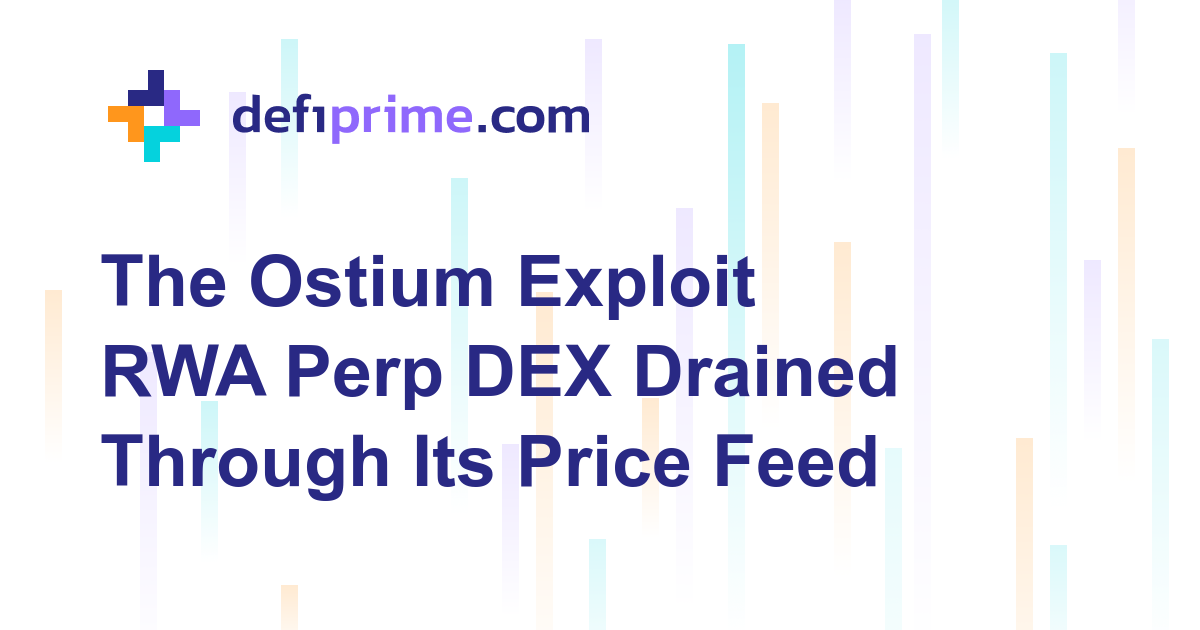
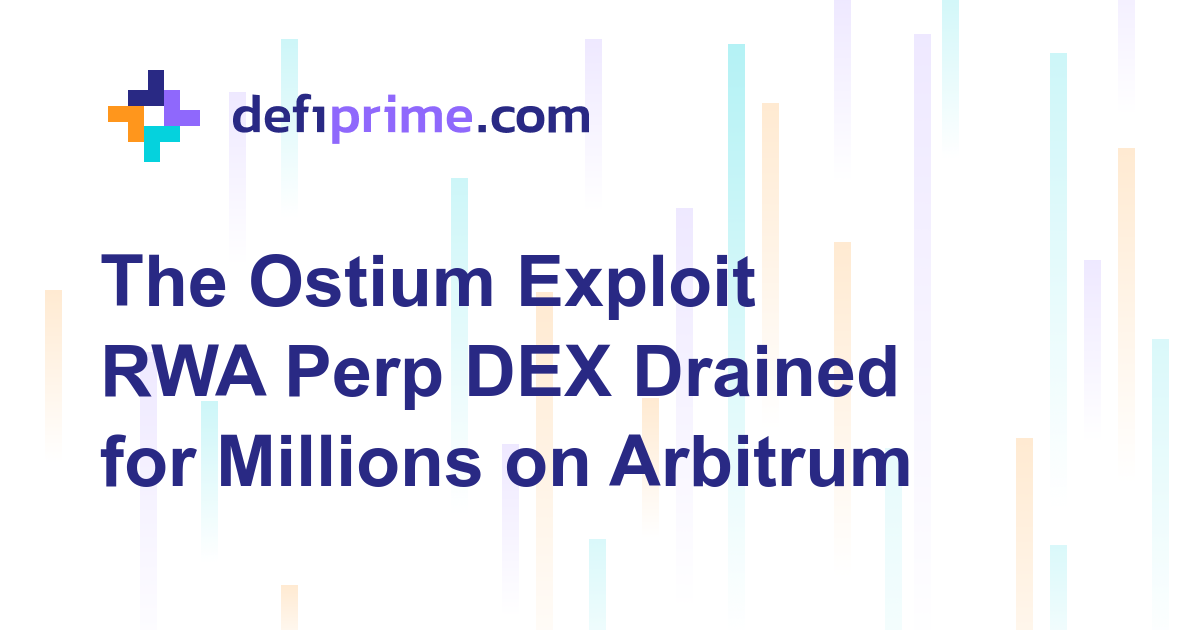
Tighten Ostium article after critical review
Address self-review findings: label the Blockaid mechanism as
secondhand/unverified rather than a firm finding, drop the unverified
"audited" assertion (keep only the confirmed Immunefi bounty), correct
the $34M-vs-$63M reasoning (a $34M vault can sit inside $63M TVL),
de-assert same-actor identity for the two addresses, soften the
headline off the least-verified mechanism, fix the cashout ETH
reconciliation, and rewrite the recycled closer. Regenerate OGP to
match the new title.

Changed region(s): [[0.0617, 0.6937, 0.7708, 0.8143]]

diff --git a/collections/_posts/2026-07-15-ostium-exploit.md b/collections/_posts/2026-07-15-ostium-exploit.md
@@ -1,29 +1,29 @@
 ---
 git-date:
 layout: [blog]
-title: "The Ostium Exploit: An RWA Perp DEX Drained Through Its Own Price Feed"
+title: "The Ostium Exploit: An RWA Perp DEX Drained for Millions on Arbitrum"
 permalink: ostium-exploit
-h1title: "The Ostium Exploit: Drained Through Its Price Feed"
-pagetitle: "The Ostium Exploit: An RWA Perp DEX Drained Through Its Own Price Feed"
-metadescription: "An attacker fed Ostium's RWA perp DEX prices only they controlled and pulled millions in USDC from its vault on Arbitrum. Here's what the chain shows."
+h1title: "The Ostium Exploit: An RWA Perp DEX Drained"
+pagetitle: "The Ostium Exploit: An RWA Perp DEX Drained for Millions on Arbitrum"
+metadescription: "An attacker drained millions in USDC from Ostium's RWA perp DEX on Arbitrum, apparently via manipulated-price trades. Here's what the chain shows."
 category: blog
 featured-image: /images/blog/ostium-exploit-ogp.png
-intro: "An attacker fed Ostium's RWA perp DEX prices only they controlled and pulled millions in USDC from its vault on Arbitrum. Here's what the chain shows, what's confirmed, and what still isn't."
+intro: "An attacker drained millions in USDC from Ostium's RWA perp DEX on Arbitrum, apparently by settling trades against prices the protocol accepted but shouldn't have. Here's what the chain shows, what's confirmed, and what still isn't."
 author: sawinyh
 tags: ["Analysis", "RWAs"]
 ---
 
-At 14:18 UTC on Wednesday, July 15, 2026, a single [Arbitrum](/arbitrum) transaction bundled twenty calls into Ostium's trading contracts and walked out with $11.86 million in USDC. The recipient wallet had opened its first position minutes earlier with a rounding-error deposit. By the time most people saw the security alerts, the money was already moving out.
+At 14:18 UTC on Wednesday, July 15, 2026, a single [Arbitrum](/arbitrum) transaction bundled twenty calls into Ostium's trading contracts and walked out with roughly $11.86 million in USDC. The recipient wallet had opened its first position minutes earlier with a rounding-error deposit. By the time most people saw the security alerts, the money was already moving out.
 
 Ostium is one of the more credible names in on-chain real-world-asset trading: a perpetuals exchange for stocks, commodities, indices, and currencies, backed by General Catalyst and Jump Crypto. The thing that makes it work, a custom price feed built for assets that don't trade like crypto, is also the thing that appears to have been turned against it.
 
-This piece reflects what was verifiable on the afternoon of July 15, 2026, a few hours after the first transaction. The on-chain facts here (the transaction, the contracts, the amount that moved, the receiving wallet) are confirmed directly against block explorers and are cited below. The total loss and the precise mechanism are not yet settled: the higher figures circulating come from security firm [Blockaid](https://www.blockaid.io/), which flagged the incident in real time, and Ostium had not published a post-mortem at the time of writing. Treat the confirmed transaction as bedrock and the total as an estimate that may move.
+This piece reflects what was verifiable on the afternoon of July 15, 2026, a few hours after the first transaction. The on-chain facts here (the transaction, the contracts, the amount that moved, the receiving wallet) are confirmed directly against block explorers and are cited below. The total loss and the precise mechanism are not yet settled. The higher figures and the attack description circulating come from security firm [Blockaid](https://www.blockaid.io/), which flagged the incident in real time. I was not able to review Blockaid's original notice directly, so where this piece leans on it, that is secondhand and labeled as such. Ostium had not published a post-mortem at the time of writing. Treat the confirmed transaction as bedrock and the total as an estimate that may move.
 
 ## What Is Ostium, and Why Does It Matter?
 
 Ostium is a decentralized [perpetuals](/perps) exchange for real-world assets, built on Arbitrum. Instead of trading perpetual futures on ETH or BTC, you trade leveraged exposure to gold, oil, the S&P, EUR/USD, or individual equities, all from a self-custodial wallet. It is one of the clearer product-market fits in the RWA narrative: crypto-native leverage and 24/7 access, pointed at markets that traditionally close at 4pm and gate retail behind brokers.
 
-The traction is real. Ostium was [founded by Harvard alumni](https://www.theblock.co/post/381241/harvard-alumni-founded-ostium-lands-24-million-in-fresh-funding-to-scale-onchain-perpetuals-for-rwas), raised a $3.5 million seed in 2023 led by General Catalyst and LocalGlobe (with SIG, DeFi Alliance, and Balaji Srinivasan among the backers), and in December 2025 added a $20 million Series A co-led by General Catalyst and [Jump Crypto](https://www.businesswire.com/news/home/20251203478893/en/Ostium-Raises-$20-Million-Series-A-from-General-Catalyst-Jump-Crypto-to-Bring-Global-Markets-Onchain), bringing total funding to roughly $27.8 million. The protocol has advertised more than $25 billion in cumulative trading volume, including around $5 billion in metals. On July 15, [DefiLlama](https://defillama.com/protocol/ostium) showed Ostium's TVL near $63 million.
+The traction is real. Ostium was [founded by Harvard alumni](https://www.theblock.co/post/381241/harvard-alumni-founded-ostium-lands-24-million-in-fresh-funding-to-scale-onchain-perpetuals-for-rwas), raised a $3.5 million seed in 2023 led by General Catalyst and LocalGlobe (with SIG, DeFi Alliance, and Balaji Srinivasan among the backers), and in December 2025 added a $20 million Series A co-led by General Catalyst and [Jump Crypto](https://www.businesswire.com/news/home/20251203478893/en/Ostium-Raises-$20-Million-Series-A-from-General-Catalyst-Jump-Crypto-to-Bring-Global-Markets-Onchain), bringing total funding to roughly $27.8 million. As of its December 2025 raise, Ostium had advertised more than $25 billion in cumulative trading volume, including around $5 billion in metals. On July 15, [DefiLlama](https://defillama.com/protocol/ostium) showed Ostium's TVL near $63 million.
 
 Traders' collateral and the counterparty liquidity that pays out winning trades sit in Ostium's vault, called the OLP (Ostium Liquidity Pool). Liquidity providers deposit USDC and, in effect, take the other side of the book. That vault is what an attacker wants to reach, and on July 15 someone found a path to it.
 
@@ -35,7 +35,7 @@ A crypto perp can read an on-chain price from deep DEX liquidity. Gold and Apple
 
 This is a sensible architecture for assets that trade off-chain. It also concentrates enormous trust in one place. Whoever is authorized to submit a price report effectively decides the number your PnL is calculated against. If that authorization leaks, or if the check that a submitted price is fresh and legitimate is missing or weak, then the party feeding the price can trade against a number they chose. That is the failure surface, and it is a close cousin of the one that broke [Resolv's USR stablecoin](/resolv-usr-exploit) in March, where a single privileged role could mint without on-chain limits.
 
-## The Exploit: Trading Against Prices Only the Attacker Controlled
+## The Exploit: What the Transaction Shows
 
 Here is what the chain shows for the primary transaction, [0x359f8c05…d4870e0](https://arbiscan.io/tx/0x359f8c05b86a4409d60cfba02084334313fd94b19f74a294fb7fc4ea7d4870e0), confirmed on both Arbiscan and Blockscout:
 
@@ -43,9 +43,9 @@ Here is what the chain shows for the primary transaction, [0x359f8c05…d4870e0]
 - It called `executeBatch`, running twenty calls that alternated between Ostium's Trading contract ([0x6D0bA1f9…7702411](https://arbiscan.io/address/0x6D0bA1f9996DBD8885827e1b2e8f6593e7702411), which Arbiscan labels "Ostium: Trading") and a second contract it alternated with, moving USDC through what Arbiscan identifies as Ostium's Trading Storage, Trading Callbacks, and Vault addresses.
 - A single deposit of about 1,000 USDC went in. Roughly 11,861,520 USDC came back out to the attacker's wallet.
 
-The transaction was not sent by the wallet that received the money. It was initiated by a separate address, 0xD1794196…85869, through an entry contract at 0xfE12F636…5bd2E, with the proceeds routed to 0x321df194…bfd9. Two addresses, one operation.
+The transaction was not sent by the wallet that received the money. It was initiated by a separate address, 0xD1794196…85869, through an entry contract at 0xfE12F636…5bd2E, with the proceeds routed to 0x321df194…bfd9. The initiator and the beneficiary may be one operator using two wallets, or the initiator may be a forwarder the attacker drove. The trace does not settle which.
 
-Blockaid, whose exploit-detection system caught the activity as it happened, described the method as the use of a registered price-upkeep forwarder together with future-dated, authorized oracle reports: in plain terms, submitting a price the system would accept, timestamped in a way that made a losing or flat position settle as a large winner. The batched open-and-close pattern in the transaction is consistent with that description. You open a position, you close it against a price you supplied, the vault books the difference as your profit and pays it out in USDC. Repeat inside one atomic batch so nothing can front-run you.
+Blockaid, whose exploit-detection system caught the activity as it happened, is reported to have attributed the method to a registered price-upkeep forwarder and manipulated oracle reports, with the manipulation described as future-dating an authorized price so a flat or losing position would settle as a large winner. I am relaying that from secondhand accounts rather than Blockaid's own notice, so treat it as the leading theory, not a confirmed finding. What the transaction itself shows is consistent with it: a batch that opens positions and closes them in the same atomic call, with the vault paying out the "profit" in USDC. If you can name the price your own trade settles against, that is all it takes.
 
 Oracle and price-feed manipulation is one of the oldest attack classes in DeFi. What is newer here is applying it to a real-world-asset feed that can't be sanity-checked against a deep on-chain market, because no such market exists for gold or a single stock.
 
@@ -55,7 +55,7 @@ Two cautions are worth stating plainly. First, the precise root cause, whether a
 
 The receiving wallet, 0x321df194…bfd9, is a fresh externally owned account with no prior history and no Arbiscan label yet. It took in the $11.86 million from the primary transaction and additional USDC from several sibling batch transactions sent the same way.
 
-The money did not stay. Checked a few hours later, the wallet held only about 99.6 ETH (gas-scale, worth a low six figures) plus a spoofed lookalike "ETH" token of the kind that gets airdropped to any address in the news. No USDC remained. The proceeds had already been swapped and moved, the standard post-exploit cashout: convert the stablecoin to ETH before anyone can freeze it, then bridge out. This is the same playbook Resolv's attacker ran in March, and the same reason "we've paused the protocol" statements so often arrive after the funds are already gone.
+The money did not stay. A few hours later, the wallet held no USDC at all, just about 99.6 ETH (gas-scale, a low six figures) and a spoofed lookalike "ETH" token of the kind that gets airdropped to any address in the news. Where the stablecoin went from there, whether swapped, split across wallets, or bridged off Arbitrum, I did not trace, and the balance snapshot may not be complete. What is clear is that it moved out fast, which is the entire point of moving before a protocol can react. It is the same race Resolv's attacker ran in March, and the same reason "we've paused the protocol" statements so often land after the funds are already gone.
 
 ## How Big Was the Hit?
 
@@ -63,12 +63,12 @@ This is where the honest answer is a range, not a headline.
 
 | Figure | Value | Status |
 |---|---|---|
-| Largest single transaction | $11.86M USDC to the attacker | Confirmed on-chain (Arbiscan + Blockscout) |
+| Largest single transaction | ~$11.86M USDC to the attacker | Tx confirmed on-chain; amount read from explorer transfer logs |
 | Additional sibling transactions | Several, same pattern | Confirmed they exist; total not cleanly summed |
 | Blockaid's reported drain | ~$18M | Security-firm estimate, unverified independently |
-| Ostium TVL at time of writing | ~$63M (DefiLlama) | Live figure, post-incident |
+| Ostium TVL on July 15 | ~$63M (DefiLlama) | Live figure; may lag the incident |
 
-So the floor is solid: at least $11.86 million left in one transaction, with more in the follow-ups. Blockaid's ~$18 million is the number to watch, but it is an estimate from a monitoring system mid-incident, not a reconciled total, and it should be labeled as such until Ostium or an independent analyst publishes a full accounting. The earlier "$34 million vault, 35% drained" framing that circulated does not line up with the ~$63 million TVL DefiLlama reports, which is one more reason to wait for the official number.
+So the floor is real: at least the better part of $12 million left in one transaction, going by the explorer transfer logs, with more in the follow-ups. Blockaid's ~$18 million is the number to watch, but it is an estimate from a monitoring system mid-incident, not a reconciled total, and it should be labeled that way until Ostium or an independent analyst publishes a full accounting. An earlier "$34 million vault, 35% drained" framing also circulated. I could not confirm either figure, and a $34 million liquidity vault could sit inside the ~$63 million total TVL DefiLlama shows, so those two are not necessarily in conflict. Wait for the official number.
 
 ## The Uncomfortable Questions
 
@@ -76,13 +76,13 @@ So the floor is solid: at least $11.86 million left in one transaction, with mor
 
 **Where were the on-chain guardrails?** The recurring lesson of 2026's exploits is that off-chain trust needs on-chain limits behind it. Was there a bound on how far a settlement price could deviate from the last accepted one? A freshness or timestamp check strict enough to reject a "future-dated" report? A per-block or per-account cap on vault payouts? The batched, atomic nature of the theft suggests at least one of those checks was missing or bypassable.
 
-**What about the audits and the bounty?** Ostium runs an [Immunefi bug bounty](https://immunefi.com/bug-bounty/ostium/) and has been through security review. As with Resolv, that did not prevent the single most sensitive pathway, the one where price meets payout, from being exploitable in production. Audits reduce risk; they do not certify its absence, especially for custom oracle code that most auditors see far less often than standard lending or AMM logic.
+**What about the bounty and any audits?** Ostium runs an [Immunefi bug bounty](https://immunefi.com/bug-bounty/ostium/), which is confirmed. Whether its contracts were formally audited, and by whom, I could not verify in the hours after the incident. Either way, the Resolv pattern holds: bounties and reviews reduce risk, they do not certify its absence, especially for custom oracle code that most auditors see far less often than standard lending or AMM logic.
 
-## The RWA Angle Nobody Wants to Talk About
+## Why RWAs Make This Harder
 
 Real-world-asset perps carry a structural risk that crypto-native perps don't. The price of gold or Nvidia has to be imported. There is no on-chain market of record to fall back on, no deep pool whose spot price is expensive to move. For an RWA perp, the oracle is the whole bridge between the product and reality. Move the price, and everything downstream of it moves too. That makes the price-authorization layer the highest-value target in the whole system, and it makes "who can submit a price, and what stops a bad one" the first question anyone should ask about an RWA trading venue, ahead of the yield, the volume, or the backers.
 
-Ostium is not a fly-by-night project. It has real funding, real volume, and a design many people saw as one of the better expressions of the RWA thesis, this site's coverage of [onchain forex](/onchain-forex-asset-primitive-gap) and [tokenized metals](/tokenized-metals-onchain-2026) included. That is exactly why the incident matters. If a well-capitalized, audited RWA perp can be drained through its price feed, the custom-oracle problem isn't a rough edge on an immature protocol. It's a category risk that the whole "bring global markets on-chain" movement has to solve before it asks users to post real size.
+Ostium is not a fly-by-night project. It has real funding, real volume, and a design many people saw as one of the better expressions of the RWA thesis, this site's coverage of [onchain forex](/onchain-forex-asset-primitive-gap) and [tokenized metals](/tokenized-metals-onchain-2026) included. That is exactly why the incident matters. If a well-capitalized, name-backed RWA perp can be drained through the layer that prices its trades, the custom-oracle problem isn't a rough edge on an immature protocol. It's a category risk that the whole "bring global markets on-chain" movement has to solve before it asks users to post real size.
 
 ## What Happens Next
 
@@ -90,4 +90,4 @@ In the hours after the attack, Ostium had not posted an official statement or a 
 
 For anyone with funds in Ostium, particularly OLP liquidity providers who sit on the counterparty side of every trade, the practical advice is the same it always is in the first hours of an incident: check your exposure directly, watch Ostium's official channels rather than secondhand figures, and don't assume a stated total is final.
 
-And for everyone else building or allocating in RWA-land, this is the case study to keep on file next to Resolv. Different protocol, different mechanism, same lesson: the boring parts of security, key management, input validation, and the limits you put on your most privileged component, decide whether the clever parts ever get a chance to matter.
+And for everyone building or allocating in RWA land, file this next to Resolv. The mechanisms differ, but both trace back to the same weak point: a single privileged component, trusted off-chain, with too little standing between it and the money on-chain. RWA protocols are lining up to put a lot more of the world's assets behind components exactly like that. This is what it looks like when one of them gives.
